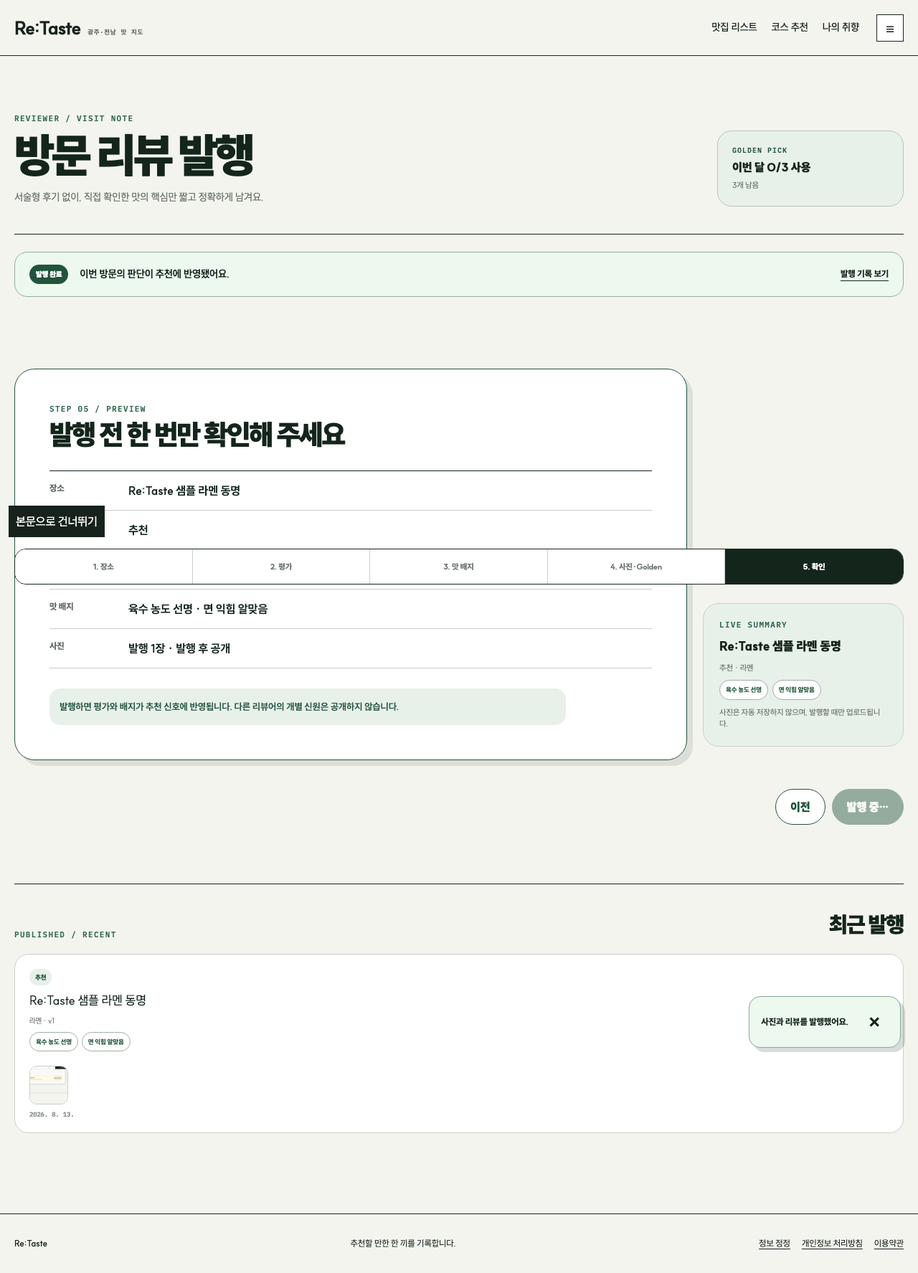
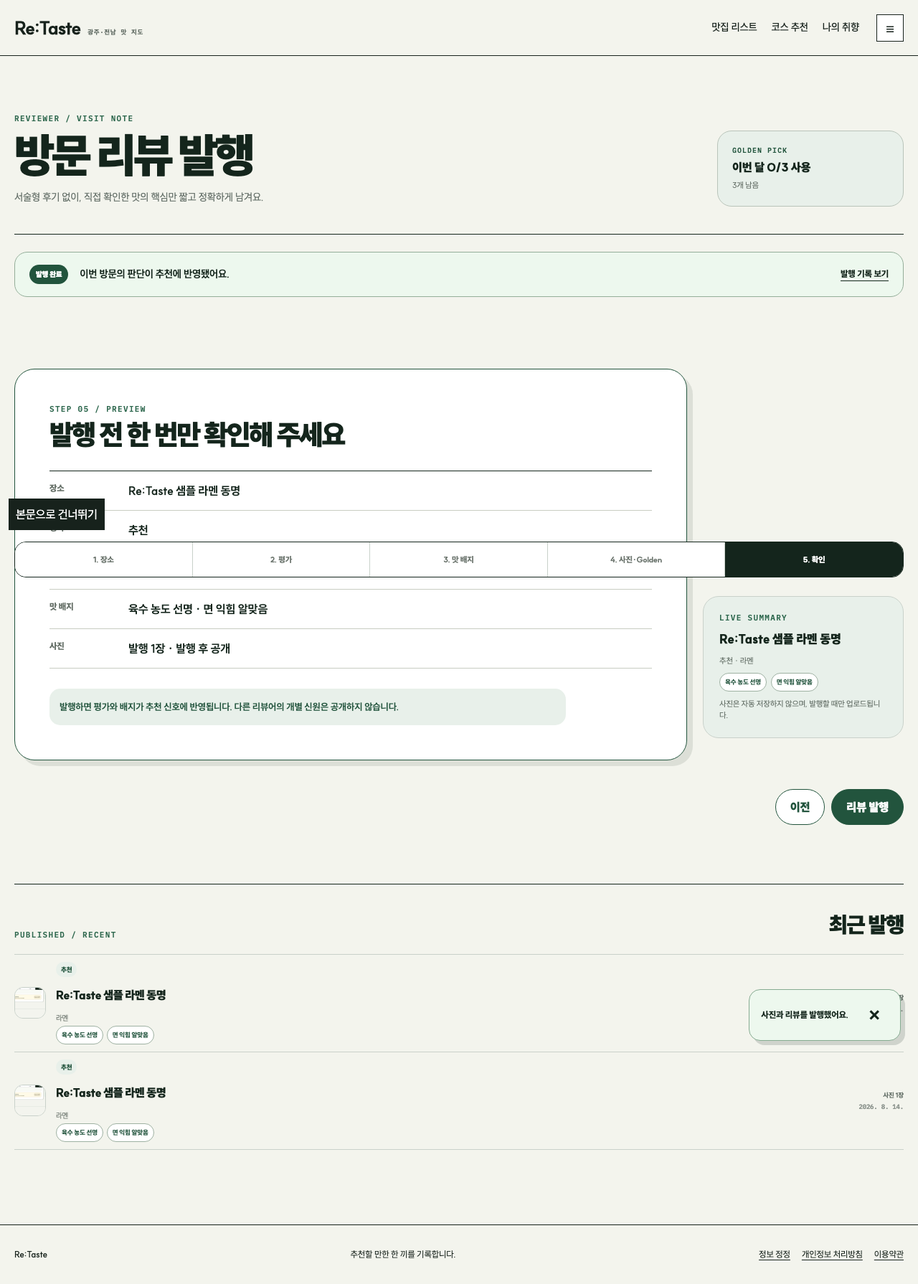
2026-08-14 리뷰어 최근 발행 리스트 개선 (#96)
* 2026-08-14 리뷰어 최근 발행 리스트 구조

* 2026-08-14 리뷰어 최근 발행 리스트 스타일

* 2026-08-14 리뷰어 최근 발행 회귀 검증 보강

* 2026-08-14 리뷰어 최근 발행 디자인 기록

diff --git a/app/app.css b/app/app.css
@@ -372,14 +372,14 @@ h1{font-size:1.4em}
 .reviewer-badge-picker button:disabled{border-style:dashed;color:#8d9790;cursor:not-allowed}.reviewer-badge-picker>p[data-complete]{color:var(--review-green)}
 .reviewer-golden-disabled{display:grid;grid-template-columns:minmax(0,1fr) auto;gap:8px 20px;margin-top:26px;border:1px solid #c7b879;border-radius:20px;background:#fff9e8;padding:22px}.reviewer-golden-disabled>div{display:grid;gap:5px}.reviewer-golden-disabled>div span{color:#806b20;font:800 10px "IBM Plex Mono"}.reviewer-golden-disabled>div strong{font-size:16px}.reviewer-golden-disabled p{grid-column:1/2;margin:0;color:#706842;font-size:11px;line-height:1.65}.reviewer-golden-disabled button{grid-column:2;grid-row:1/3;border:1px solid #b7a45f;border-radius:999px;background:#eee8d2;padding:11px 16px;color:#8a805c;font-weight:900}.reviewer-golden-disabled small{grid-column:1/-1;color:#877d58;font-size:9px}
 .reviewer-preview dl{margin-top:28px;border-top:1px solid var(--review-ink)}.reviewer-preview dl div{grid-template-columns:110px 1fr;padding:15px 0}.reviewer-preview dt{font-weight:800}.reviewer-preview dd{font-weight:700}.reviewer-privacy-note{border-radius:15px;background:var(--review-mist);padding:14px!important;color:var(--review-green)!important;font-weight:700}
-.reviewer-live-summary{position:sticky;top:76px;display:grid;gap:9px;border:1px solid var(--review-line);border-radius:22px;background:var(--review-mist);padding:22px}.reviewer-live-summary strong{font-size:17px;font-weight:900}.reviewer-live-summary>span,.reviewer-live-summary>small{color:#68736b;font-size:11px;line-height:1.5}.reviewer-live-summary>div{display:flex;flex-wrap:wrap;gap:6px}.reviewer-live-summary i,.reviewer-history article i{border:1px solid #9eb1a2;border-radius:999px;background:#fff;padding:6px 8px;color:var(--review-green);font-size:9px;font-style:normal;font-weight:800}
+.reviewer-live-summary{position:sticky;top:76px;display:grid;gap:9px;border:1px solid var(--review-line);border-radius:22px;background:var(--review-mist);padding:22px}.reviewer-live-summary strong{font-size:17px;font-weight:900}.reviewer-live-summary>span,.reviewer-live-summary>small{color:#68736b;font-size:11px;line-height:1.5}.reviewer-live-summary>div{display:flex;flex-wrap:wrap;gap:6px}.reviewer-live-summary i,.reviewer-history-badges i{border:1px solid #9eb1a2;border-radius:999px;background:#fff;padding:5px 7px;color:var(--review-green);font-size:9px;font-style:normal;font-weight:800}
 .reviewer-actions{grid-column:1/-1;display:flex;justify-content:flex-end;gap:9px;margin-top:4px;padding:14px 0}.reviewer-actions button{min-height:48px;border:1px solid var(--review-green);border-radius:999px;padding:12px 20px;font-weight:900;cursor:pointer}.reviewer-actions button:disabled{cursor:not-allowed;opacity:.45}.reviewer-secondary{background:#fff;color:var(--review-green)}.reviewer-primary{background:var(--review-green);color:#fff}
-.reviewer-history{margin-top:68px;padding-top:28px;border-top:1px solid var(--review-ink)}.reviewer-history>div:first-child{display:flex;align-items:end;justify-content:space-between}.reviewer-history h2{margin:6px 0 0;font-size:30px;font-weight:900;letter-spacing:-.05em}.reviewer-history-rail{display:grid;grid-auto-columns:minmax(250px,1fr);grid-auto-flow:column;gap:10px;margin-top:18px;padding-bottom:8px;overflow-x:auto;scroll-snap-type:x proximity}.reviewer-history article{display:grid;gap:8px;min-height:170px;border:1px solid var(--review-line);border-radius:20px;background:#fff;padding:20px;scroll-snap-align:start}.reviewer-history article>span{width:max-content;border-radius:999px;background:var(--review-mist);padding:5px 8px;color:var(--review-green);font-size:9px;font-weight:900}.reviewer-history h3{margin:0;font-size:17px}.reviewer-history article p{margin:0;color:#6d766f;font-size:10px}.reviewer-history article>div{display:flex;flex-wrap:wrap;gap:5px}.reviewer-history time{align-self:end;color:#8a928c;font:700 9px "IBM Plex Mono"}.reviewer-empty{grid-column:1/-1;margin:24px 0 0;color:#778079;font-size:12px}
+.reviewer-history{margin-top:68px;padding-top:28px;border-top:1px solid var(--review-ink)}.reviewer-history>div:first-child{display:flex;align-items:end;justify-content:space-between}.reviewer-history h2{margin:6px 0 0;font-size:30px;font-weight:900;letter-spacing:-.05em}.reviewer-history-list{display:grid;margin-top:18px;border-top:1px solid var(--review-line)}.reviewer-history-row{display:grid;grid-template-columns:minmax(0,1fr) auto;align-items:center;gap:10px 14px;min-width:0;border-bottom:1px solid var(--review-line);padding:10px 0}.reviewer-history-row[data-has-photo="true"]{grid-template-columns:44px minmax(0,1fr) auto}.reviewer-history-thumb{width:44px;height:44px;border:1px solid var(--review-line);border-radius:12px;object-fit:cover;background:var(--review-mist)}.reviewer-history-main{display:grid;gap:3px;min-width:0}.reviewer-history-meta,.reviewer-history-badges{display:flex;align-items:center;flex-wrap:wrap;gap:5px}.reviewer-history-evaluation,.reviewer-history-golden{border-radius:999px;padding:4px 7px;color:var(--review-green);font-size:9px;font-weight:900}.reviewer-history-evaluation{background:var(--review-mist)}.reviewer-history-golden{border:1px solid #c7b879;background:#fff9e8;color:#806b20}.reviewer-history h3{min-width:0;margin:0}.reviewer-history-place-link{display:inline-flex;align-items:center;min-height:44px;max-width:100%;color:var(--review-ink);font-size:16px;font-weight:900;letter-spacing:-.035em;cursor:pointer}.reviewer-history-place-link:hover{text-decoration:underline;text-decoration-thickness:1px;text-underline-offset:3px}.reviewer-history-place-link:focus-visible{outline:2px solid var(--review-green);outline-offset:3px}.reviewer-history-main>p{margin:0;color:#6d766f;font-size:10px}.reviewer-history-summary{display:grid;justify-items:end;gap:4px;align-self:center;color:#68736b;font-size:9px;text-align:right;white-space:nowrap}.reviewer-history-photo-count{font-weight:800}.reviewer-history time{color:#8a928c;font:700 9px "IBM Plex Mono"}.reviewer-empty{grid-column:1/-1;margin:24px 0 0;color:#778079;font-size:12px}
 @media(max-width:860px){.reviewer-publish{padding-top:30px}.reviewer-publish__hero{grid-template-columns:1fr}.reviewer-quota{max-width:320px}.reviewer-workspace{grid-template-columns:1fr}.reviewer-live-summary{display:none}.reviewer-actions{position:sticky;z-index:5;bottom:0;margin-inline:-14px;background:rgba(244,246,240,.96);padding:10px 14px calc(10px + env(safe-area-inset-bottom))}.reviewer-actions button{flex:1}.reviewer-step-card{min-height:500px}.reviewer-evaluation-grid{grid-template-columns:1fr}.reviewer-evaluation-grid button{min-height:110px}.reviewer-place-grid{grid-template-columns:1fr}}
-@media(max-width:560px){.reviewer-publish{padding-bottom:72px}.reviewer-publish__hero{padding-top:10px}.reviewer-publish__hero h1{font-size:36px}.reviewer-publish__hero>div>p:last-child{font-size:12px}.reviewer-steps{margin-top:20px;border-radius:13px}.reviewer-steps button{min-height:43px;font-size:0}.reviewer-steps button::first-letter{font-size:11px}.reviewer-steps button[aria-current="step"]{font-size:10px}.reviewer-step-card{min-height:490px;border-radius:22px;padding:22px 18px;box-shadow:5px 5px 0 rgba(20,37,28,.1)}.reviewer-step-card h2{font-size:29px}.reviewer-badge-picker>div:nth-child(2){grid-template-columns:1fr}.reviewer-badge-picker button{min-height:58px}.reviewer-golden-disabled{grid-template-columns:1fr}.reviewer-golden-disabled button{grid-column:1;grid-row:auto;width:100%}.reviewer-success{align-items:flex-start;flex-wrap:wrap}.reviewer-success a{margin-left:0}.reviewer-history-rail{grid-auto-columns:82vw}}
+@media(max-width:560px){.reviewer-publish{padding-bottom:72px}.reviewer-publish__hero{padding-top:10px}.reviewer-publish__hero h1{font-size:36px}.reviewer-publish__hero>div>p:last-child{font-size:12px}.reviewer-steps{margin-top:20px;border-radius:13px}.reviewer-steps button{min-height:43px;font-size:0}.reviewer-steps button::first-letter{font-size:11px}.reviewer-steps button[aria-current="step"]{font-size:10px}.reviewer-step-card{min-height:490px;border-radius:22px;padding:22px 18px;box-shadow:5px 5px 0 rgba(20,37,28,.1)}.reviewer-step-card h2{font-size:29px}.reviewer-badge-picker>div:nth-child(2){grid-template-columns:1fr}.reviewer-badge-picker button{min-height:58px}.reviewer-golden-disabled{grid-template-columns:1fr}.reviewer-golden-disabled button{grid-column:1;grid-row:auto;width:100%}.reviewer-success{align-items:flex-start;flex-wrap:wrap}.reviewer-success a{margin-left:0}.reviewer-history-row,.reviewer-history-row[data-has-photo="true"]{align-items:start;grid-template-columns:44px minmax(0,1fr);gap:8px 10px}.reviewer-history-row:not([data-has-photo]){grid-template-columns:minmax(0,1fr)}.reviewer-history-summary{grid-column:2;justify-items:start;display:flex;gap:8px;text-align:left}.reviewer-history-row:not([data-has-photo]) .reviewer-history-summary{grid-column:1}.reviewer-history-place-link{font-size:15px}.reviewer-history-badges{gap:4px}}
 
 /* Public reviewer photos stay compact inside the existing field-note design. */
-.reviewer-history-photos{display:flex;gap:6px;margin-top:12px}.reviewer-history-photos img{width:54px;height:54px;border:1px solid var(--review-line);border-radius:10px;object-fit:cover}.review-photo-gallery{margin-top:28px;border-top:1px solid var(--border);padding-top:24px}.review-photo-gallery h2{margin:6px 0 14px;font-size:20px;letter-spacing:-.035em}.review-photo-gallery>div:last-child{display:grid;grid-template-columns:repeat(3,minmax(0,1fr));gap:8px}.review-photo-gallery img{width:100%;aspect-ratio:1;border:1px solid var(--border);border-radius:12px;object-fit:cover;background:#eef1eb}@media(max-width:560px){.review-photo-gallery>div:last-child{grid-template-columns:repeat(2,minmax(0,1fr))}}
+.review-photo-gallery{margin-top:28px;border-top:1px solid var(--border);padding-top:24px}.review-photo-gallery h2{margin:6px 0 14px;font-size:20px;letter-spacing:-.035em}.review-photo-gallery>div:last-child{display:grid;grid-template-columns:repeat(3,minmax(0,1fr));gap:8px}.review-photo-gallery img{width:100%;aspect-ratio:1;border:1px solid var(--border);border-radius:12px;object-fit:cover;background:#eef1eb}@media(max-width:560px){.review-photo-gallery>div:last-child{grid-template-columns:repeat(2,minmax(0,1fr))}}
 
 /* Shared interaction feedback: controls are visibly actionable without bespoke cursor rules. */
 button:not(:disabled){cursor:pointer}

diff --git a/tests/e2e/reviewer-photo-upload.spec.ts b/tests/e2e/reviewer-photo-upload.spec.ts
@@ -17,6 +17,7 @@ const REVIEWER_SESSION = {
 async function completeReviewBeforePhotoStep(page: import("@playwright/test").Page) {
   await page.context().addCookies([REVIEWER_SESSION]);
   await page.goto("/reviewer/ratings");
+  await page.evaluate(() => new Promise<void>((resolve) => requestAnimationFrame(() => requestAnimationFrame(() => resolve()))));
   await page.getByPlaceholder("다녀온 장소 검색").fill("샘플 라멘 동명");
   await page.getByRole("button", { name: /Re:Taste 샘플 라멘 동명/ }).click();
   await page.getByRole("button", { name: "다음: 평가" }).click();
@@ -72,10 +73,28 @@ test("reviewer publishes a prepared EXIF JPEG and everyone can load the metadata
   expect(await publicPhoto.evaluate((image: HTMLImageElement) => image.naturalWidth > 0)).toBe(true);
   const publicBytes = Buffer.from(await (await page.request.get(await publicPhoto.getAttribute("src") ?? "")).body());
   expect(publicBytes.includes(Buffer.from([0xff, 0xe1]))).toBe(false);
+
+  const historyList = page.locator(".reviewer-history-list");
+  await expect(historyList).toBeVisible();
+  const historyRow = historyList.locator(".reviewer-history-row").first();
+  const historyPlaceLink = historyRow.locator(".reviewer-history-place-link");
+  await expect(historyPlaceLink).toHaveCount(1);
+  await expect(historyPlaceLink).toHaveAttribute("href", /^\/places\/[^/]+$/);
+  await expect(historyRow.locator("a")).toHaveCount(1);
+  await expect(historyRow.locator("button, [role=button]")).toHaveCount(0);
+  await expect(historyRow).toContainText("사진 1장");
+  await expect(historyRow.locator(".reviewer-history-badges i")).toHaveCount(2);
+  await expect(page.locator(".reviewer-history-rail")).toHaveCount(0);
+  await expect(historyPlaceLink).toHaveCSS("cursor", "pointer");
+  const historyPlaceLinkBox = await historyPlaceLink.boundingBox();
+  expect(historyPlaceLinkBox?.height).toBeGreaterThanOrEqual(44);
   await page.screenshot({
     path: `docs/evidence/2026-08-13-reviewer-photo-upload-${testInfo.project.name}.png`,
     fullPage: true,
   });
+  await historyPlaceLink.focus();
+  await page.keyboard.press("Enter");
+  await expect(page).toHaveURL(/\/places\//);
 });
 
 test("rejects a source that is too large before it tries to prepare or publish it", async ({ page }) => {
@@ -106,7 +125,7 @@ test("unsupported photo keeps the review in place and exposes an accessible retr
   await expect(page.getByRole("button", { name: "Golden Pick 선택" })).toHaveCSS("cursor", "not-allowed");
 });
 
-test("double-clicking publish creates one review only", async ({ page }) => {
+test("double-clicking publish creates one review only", async ({ page }, testInfo) => {
   await completeReviewBeforePhotoStep(page);
   await page.getByRole("button", { name: "다음: 확인" }).click();
   const before = await page.locator(".reviewer-history article").count();
@@ -114,6 +133,25 @@ test("double-clicking publish creates one review only", async ({ page }) => {
   await page.getByRole("button", { name: "리뷰 발행" }).dblclick();
   await expect(page).toHaveURL(/notice=review-published/);
   await expect(page.locator(".reviewer-history article")).toHaveCount(before + 1);
+
+  // The newly published review is sorted first. A no-photo publication must
+  // not reserve the thumbnail column or turn the row into a general action.
+  const historyRow = page.locator(".reviewer-history-list .reviewer-history-row").first();
+  await expect(historyRow).not.toHaveAttribute("data-has-photo");
+  await expect(historyRow.locator(".reviewer-history-thumb")).toHaveCount(0);
+  await expect(historyRow).toContainText("사진 없음");
+  const historyPlaceLink = historyRow.locator(".reviewer-history-place-link");
+  await expect(historyPlaceLink).toHaveCount(1);
+  await expect(historyPlaceLink).toHaveAttribute("href", /^\/places\/[^/]+$/);
+  await expect(historyRow.locator("a")).toHaveCount(1);
+  await expect(historyRow.locator("button, [role=button]")).toHaveCount(0);
+
+  const gridTemplateColumns = await historyRow.evaluate((row) => getComputedStyle(row).gridTemplateColumns);
+  if (testInfo.project.name.includes("mobile")) {
+    expect(gridTemplateColumns.trim().split(/\s+/)).toHaveLength(1);
+  } else {
+    expect(gridTemplateColumns).not.toMatch(/^44px\b/);
+  }
 });
 
 test("reviewer can move through the review flow by keyboard", async ({ page }) => {

diff --git a/app/components/reviewer-visit-flow.tsx b/app/components/reviewer-visit-flow.tsx
@@ -1,5 +1,5 @@
 import { type FormEvent, useEffect, useMemo, useRef, useState } from "react";
-import { useFetcher } from "react-router";
+import { Link, useFetcher } from "react-router";
 
 import { AppToast, type AppToastValue } from "./app-toast";
 import {
@@ -27,6 +27,7 @@ type ReviewerCategory = { id: string; name: string; emoji: string };
 type ReviewerHistory = {
   id: string;
   placeId: string;
+  placeSlug: string;
   placeName: string;
   categoryId: string;
   categoryName: string;
@@ -443,18 +444,30 @@ export function ReviewerVisitFlow({ places, categories, history, goldenQuota, pu
 
       <section className="reviewer-history" aria-labelledby="reviewer-history-title">
         <div><p className="eyebrow">PUBLISHED / RECENT</p><h2 id="reviewer-history-title">최근 발행</h2></div>
-        {history.length ? <div className="reviewer-history-rail">{history.map((review) => (
-          <article key={review.id} id={`review-${review.id}`}>
-            <span>{evaluationLabels[review.evaluation]}</span>
-            <h3>{review.placeName}</h3>
-            <p>{review.categoryName} · v{review.version}</p>
-            <div>{parseBadges(review.badgesJson).map((badge) => <i key={badge}>{badge}</i>)}</div>
-            {review.photos.length > 0 && <div className="reviewer-history-photos" aria-label={`${review.placeName} 발행 사진`}>
-              {review.photos.map((photo) => <img key={photo.id} src={photo.url} alt="" loading="lazy" />)}
-            </div>}
-            <time dateTime={review.publishedAt}>{new Date(review.publishedAt).toLocaleDateString("ko-KR")}</time>
-          </article>
-        ))}</div> : <p className="reviewer-empty">아직 발행한 방문 리뷰가 없어요. 첫 기록을 남겨보세요.</p>}
+        {history.length ? <div className="reviewer-history-list">{history.map((review) => {
+          const reviewBadges = parseBadges(review.badgesJson).slice(0, 2);
+          const firstPhoto = review.photos[0];
+          return (
+            <article className="reviewer-history-row" data-has-photo={firstPhoto ? "true" : undefined} key={review.id} id={`review-${review.id}`}>
+              {firstPhoto ? <img className="reviewer-history-thumb" src={firstPhoto.url} alt="" loading="lazy" /> : null}
+              <div className="reviewer-history-main">
+                <div className="reviewer-history-meta">
+                  <span className="reviewer-history-evaluation">{evaluationLabels[review.evaluation]}</span>
+                  {review.goldenPickEventId ? <span className="reviewer-history-golden">Golden Pick</span> : null}
+                </div>
+                <h3><Link className="reviewer-history-place-link" to={`/places/${review.placeSlug}`}>{review.placeName}</Link></h3>
+                <p>{review.categoryName}</p>
+                {reviewBadges.length ? <div className="reviewer-history-badges" aria-label={`${review.placeName} 맛 배지`}>
+                  {reviewBadges.map((badge) => <i key={badge}>{badge}</i>)}
+                </div> : null}
+              </div>
+              <div className="reviewer-history-summary">
+                <span className="reviewer-history-photo-count">{review.photos.length ? `사진 ${review.photos.length}장` : "사진 없음"}</span>
+                <time dateTime={review.publishedAt}>{new Date(review.publishedAt).toLocaleDateString("ko-KR")}</time>
+              </div>
+            </article>
+          );
+        })}</div> : <p className="reviewer-empty">아직 발행한 방문 리뷰가 없어요. 첫 기록을 남겨보세요.</p>}
       </section>
       <AppToast toast={toast} onClose={() => setToast(null)} />
     </main>

diff --git a/app/features/ratings/reviewer-visit.server.ts b/app/features/ratings/reviewer-visit.server.ts
@@ -332,6 +332,7 @@ export async function listReviewerVisitHistory(db: AppDb, reviewerUserId: string
   const reviews = await db.select({
     id: reviewerVisitReviews.id,
     placeId: reviewerVisitReviews.placeId,
+    placeSlug: places.slug,
     placeName: places.name,
     categoryId: reviewerVisitReviews.categoryId,
     categoryName: categories.name,

diff --git a/docs/superpowers/plans/2026-08-13-reviewer-recent-list.md b/docs/superpowers/plans/2026-08-13-reviewer-recent-list.md
@@ -1,0 +1,143 @@
+# 리뷰어 최근 발행 리스트 구현 계획
+
+> **For agentic workers:** REQUIRED SUB-SKILL: Use superpowers:executing-plans to implement this plan task-by-task. Steps use checkbox (`- [ ]`) syntax for tracking.
+
+**Goal:** 리뷰어 최근 발행을 카드 레일이 아닌 간결한 리스트로 제공하고, 장소명은 기존 상세로 연결한다.
+
+**Architecture:** `ReviewerVisitFlow`가 기존 loader의 `history` 데이터를 그대로 리스트 행으로 렌더링한다. 사진이 있는 행만 첫 공개 사진 썸네일을 렌더링하고, `Link`를 통해 기존 장소 상세 경로로 이동한다. 스타일은 기존 리뷰어 토큰 안에서 리스트 밀도와 모바일 한 열 규칙만 정의한다.
+
+**Tech Stack:** React Router Framework Mode, React, TypeScript, CSS, Vitest, Playwright.
+
+## Global Constraints
+
+- DB·R2·환경 변수·외부 서비스·의존성 변경을 하지 않는다.
+- 최근 발행 항목 전체를 클릭 가능한 컨트롤로 만들지 않고 장소명 링크만 제공한다.
+- 사진 수는 실제 `photos.length`에서 계산한다.
+- 테스트를 먼저 작성하고 실패를 확인한 뒤 최소 구현한다.
+
+---
+
+### Task 1: 최근 발행 리스트 렌더링
+
+**Files:**
+- Modify: `app/components/reviewer-visit-flow.tsx`
+- Modify: `app/features/ratings/reviewer-visit.server.ts`
+- Test: `tests/e2e/reviewer-photo-upload.spec.ts`
+
+**Interfaces:**
+- Consumes: `ReviewerHistory`의 `placeName`, `placeSlug`, `placeId`, `categoryName`, `evaluation`, `badgesJson`, `photos`, `goldenPickEventId`, `publishedAt`.
+- Produces: `.reviewer-history-list`, `.reviewer-history-row`, `.reviewer-history-place-link` DOM 계약.
+
+- [x] **Step 1: 실패하는 E2E 테스트 작성**
+
+```ts
+await expect(page.locator(".reviewer-history-list")).toBeVisible();
+const row = page.locator(".reviewer-history-row").first();
+await expect(row.locator(".reviewer-history-place-link")).toHaveAttribute("href", /^\\/places\\//);
+await expect(page.locator(".reviewer-history-rail")).toHaveCount(0);
+```
+
+- [x] **Step 2: 테스트가 현재 카드 레일 때문에 실패하는지 확인**
+
+Run: `pnpm exec playwright test tests/e2e/reviewer-photo-upload.spec.ts --project=chromium`
+
+Expected: FAIL because `.reviewer-history-list` is absent.
+
+- [x] **Step 3: 최소 렌더링 구현**
+
+```tsx
+<div className="reviewer-history-list">
+  {history.map((review) => (
+    <article className="reviewer-history-row" key={review.id}>
+      <Link className="reviewer-history-place-link" to={`/places/${review.placeSlug}`}>
+        {review.placeName}
+      </Link>
+    </article>
+  ))}
+</div>
+```
+
+`ReviewerHistory`에 loader가 제공할 `placeSlug`을 포함하고, 사진·배지·Golden Pick·날짜를 해당 행의 보조 정보로 출력한다.
+
+- [x] **Step 4: E2E 테스트가 통과하는지 확인**
+
+Run: `pnpm exec playwright test tests/e2e/reviewer-photo-upload.spec.ts --project=chromium`
+
+Expected: PASS.
+
+### Task 2: 리스트 밀도와 모바일 레이아웃
+
+**Files:**
+- Modify: `app/app.css`
+- Test: `tests/e2e/reviewer-photo-upload.spec.ts`
+
+**Interfaces:**
+- Consumes: Task 1의 `.reviewer-history-list`, `.reviewer-history-row`, `.reviewer-history-place-link`.
+- Produces: 44px 이상의 링크 터치 영역과 모바일 한 열 레이아웃.
+
+- [x] **Step 1: 실패하는 스타일·키보드 E2E 테스트 작성**
+
+```ts
+const placeLink = page.locator(".reviewer-history-place-link").first();
+await expect(placeLink).toHaveCSS("cursor", "pointer");
+await placeLink.focus();
+await page.keyboard.press("Enter");
+await expect(page).toHaveURL(/\\/places\\//);
+```
+
+- [x] **Step 2: 현재 구현에서 실패하는지 확인**
+
+Run: `pnpm exec playwright test tests/e2e/reviewer-photo-upload.spec.ts --project=Pixel-7`
+
+Expected: FAIL because the list-link selector is absent.
+
+- [x] **Step 3: 최소 CSS 구현**
+
+```css
+.reviewer-history-list { display:grid; gap:8px; }
+.reviewer-history-row { display:grid; grid-template-columns:auto minmax(0,1fr) auto; }
+.reviewer-history-place-link { min-height:44px; display:inline-flex; align-items:center; }
+@media (max-width:560px) { .reviewer-history-row { grid-template-columns:minmax(0,1fr) auto; } }
+```
+
+사진 썸네일은 44px 정사각형으로 제한하고, 배지·Golden Pick·날짜는 기존 색 토큰으로 조용하게 표시한다.
+
+- [x] **Step 4: 모바일 E2E와 변경 범위 타입 검증**
+
+Run: `pnpm exec playwright test tests/e2e/reviewer-photo-upload.spec.ts --project=Pixel-7 && pnpm run typecheck`
+
+Expected: PASS.
+
+### Task 3: 회귀 검증과 인수인계
+
+**Files:**
+- Modify: `docs/superpowers/specs/2026-08-13-reviewer-recent-list-design.md`
+- Modify: `docs/superpowers/plans/2026-08-13-reviewer-recent-list.md`
+
+- [x] **Step 1: 전체 관련 테스트 실행**
+
+Run: `pnpm test -- tests/unit/reviewer-photo-client.test.ts && pnpm run test:integration -- tests/integration/reviewer-ratings-route.test.ts && pnpm exec playwright test tests/e2e/reviewer-photo-upload.spec.ts`
+
+Expected: PASS.
+
+- [x] **Step 2: 변경 검토**
+
+Run: `git diff --check && git status --short`
+
+Expected: whitespace error 없음, 의도한 파일만 변경.
+
+- [ ] **Step 3: 커밋과 Pull Request 갱신**
+
+```bash
+git add app/components/reviewer-visit-flow.tsx app/app.css tests/e2e/reviewer-photo-upload.spec.ts docs/superpowers
+git commit -m "2026-08-13 리뷰어 최근 발행 리스트 개선"
+git push
+```
+
+Draft PR에 데스크톱·모바일 증거, 검증 결과, 운영 영향 없음과 rollback 방식을 기록한다.
+
+## 자체 검토
+
+- 범위는 리뷰어 발행 UI와 회귀 테스트로 한정돼 있으며 새 데이터·서비스가 없다.
+- 모든 요구사항(작은 리스트, 장소 상세 링크, 사진·Golden Pick·날짜 정보, 바텀시트 없음, 모바일)을 Task 1~2가 다룬다.
+- `TBD`, `TODO`, 모호한 후속 작업 표기가 없다.

diff --git a/docs/superpowers/specs/2026-08-13-reviewer-recent-list-design.md b/docs/superpowers/specs/2026-08-13-reviewer-recent-list-design.md
@@ -1,0 +1,34 @@
+# 리뷰어 최근 발행 리스트 디자인
+
+## 목적
+
+리뷰어의 최근 발행 기록을 큰 카드 모음 대신 빠르게 훑을 수 있는 작은 리스트로 바꾼다. 기록을 다시 수정하거나 상세하게 읽는 기능은 추가하지 않는다.
+
+## 사용자 경험
+
+- 최근 발행의 각 항목은 한 줄 기반의 짧은 기록이다.
+- 왼쪽에는 평가 상태, 가운데에는 장소명과 카테고리·맛 배지, 오른쪽에는 사진 수와 발행일을 둔다.
+- 사진이 있으면 첫 사진을 작은 정사각형 썸네일로 보여 주되, 사진이 없으면 빈 썸네일 영역을 만들지 않는다.
+- 장소명만 기존 `/places/:placeSlug` 상세 페이지 링크로 제공한다.
+- 리스트 항목 전체에는 별도 클릭·바텀시트·모달을 제공하지 않는다.
+- 링크와 버튼은 키보드 포커스와 포인터 커서를 유지한다.
+
+## 화면 규칙
+
+- 데스크톱: 최대 6개를 세로 리스트로 표시한다.
+- 모바일: 같은 리스트를 한 열로 표시하고, 썸네일·날짜·사진 수를 한 줄에 압축한다.
+- Golden Pick은 작은 텍스트 배지로만 보이며 새 색 체계는 추가하지 않는다.
+- 기존 Re:Taste 녹색·연한 미스트·얇은 테두리·SUIT 계열 밀도를 유지한다.
+
+## 데이터 및 범위
+
+- 기존 `ReviewerHistory`의 장소명, 카테고리, 평가, 배지, 사진, Golden Pick ID, 발행일을 사용한다. 기존 장소 상세 링크를 위해 loader 조회 결과에 이미 보관된 장소 슬러그를 함께 투영한다.
+- D1 스키마·R2·환경 변수·공개 사진 경로는 바꾸지 않는다.
+- 기존 리뷰 발행·사진 업로드·성공 토스트 흐름은 유지한다.
+
+## 검증
+
+- 최근 발행이 리스트 항목과 장소 상세 링크로 렌더링된다.
+- 사진이 있는 기록은 썸네일과 사진 수를 보인다.
+- Golden Pick 기록은 작은 상태 배지를 보인다.
+- 데스크톱과 모바일 Playwright에서 리스트와 키보드 링크 동작을 확인한다.
